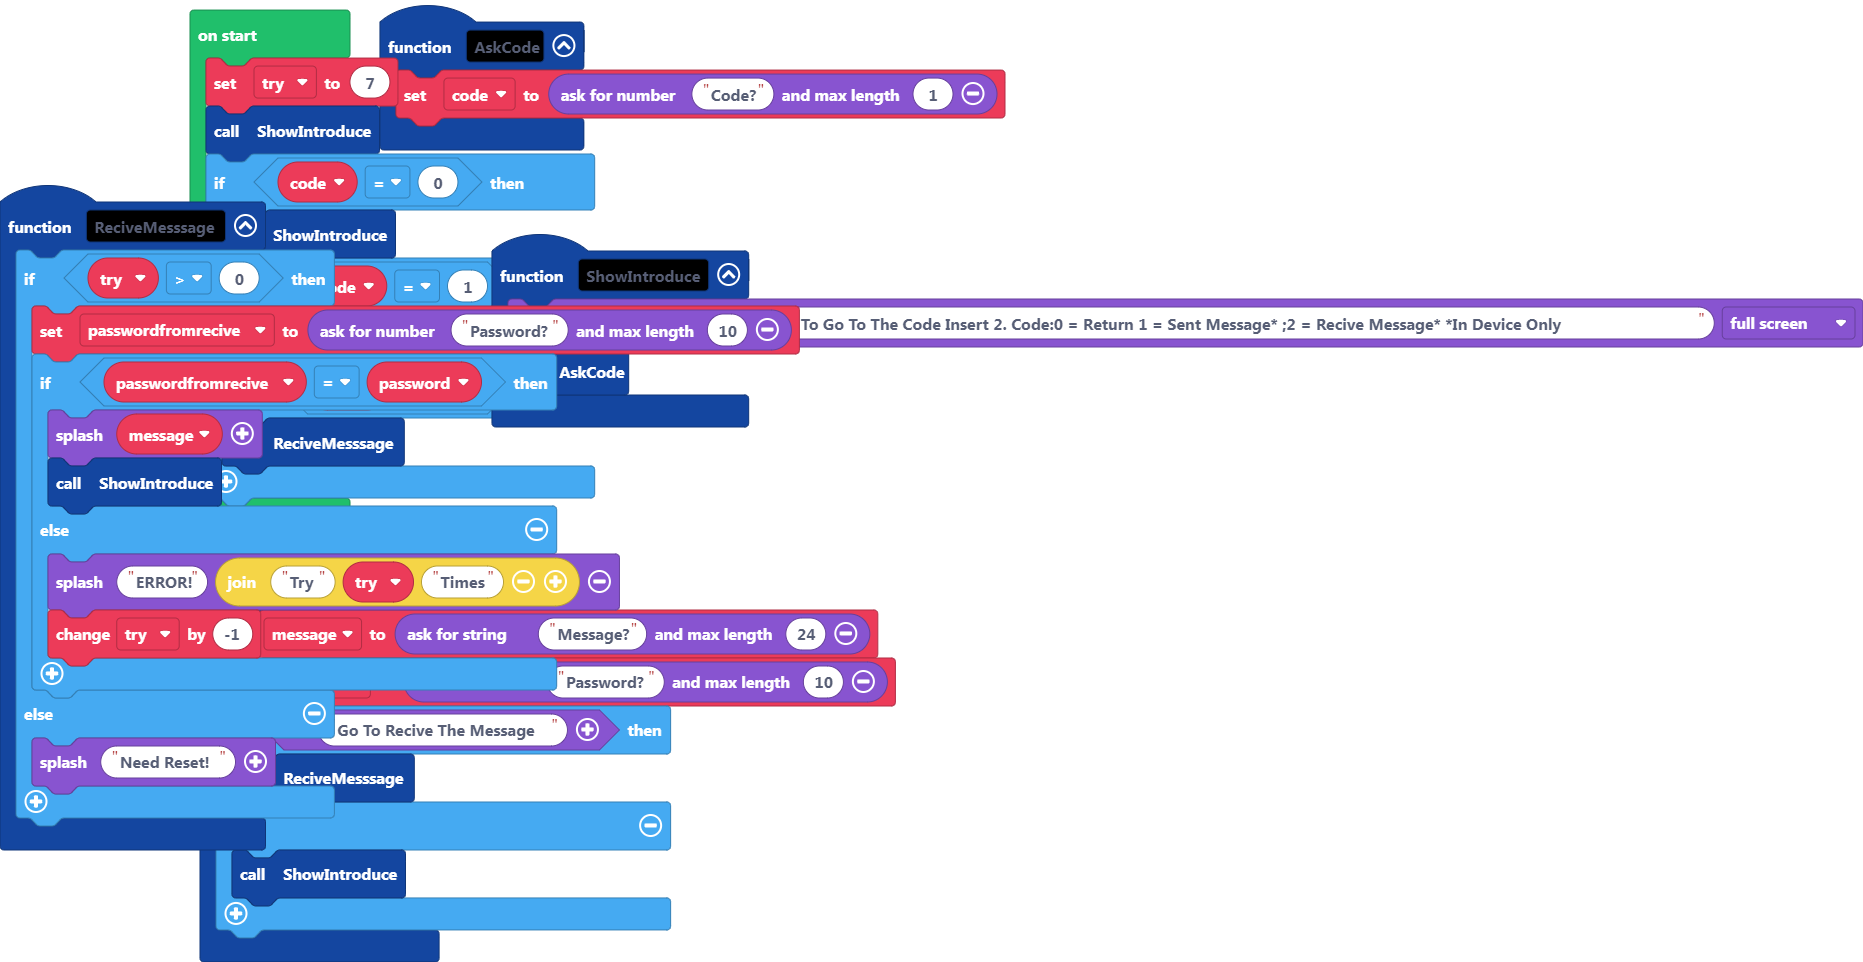
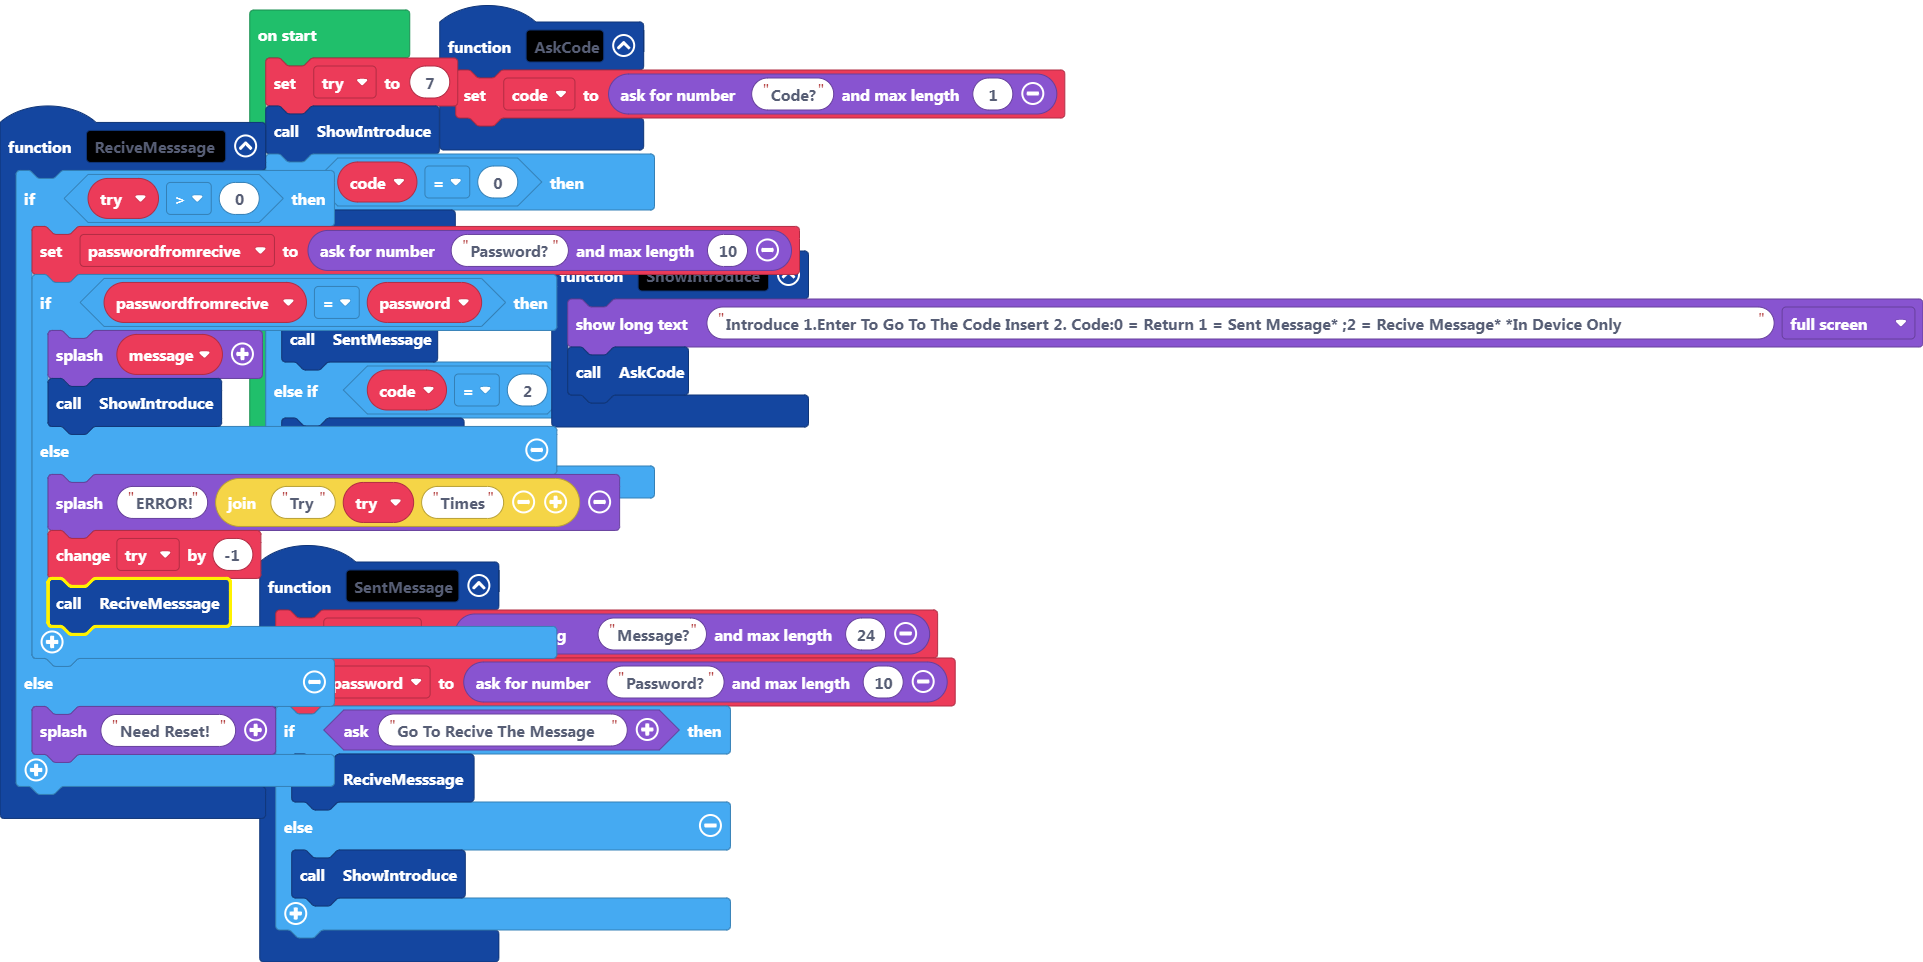
Update main.blocks, main.ts

diff --git a/main.ts b/main.ts
@@ -7,6 +7,7 @@ function ReciveMesssage () {
         } else {
             game.splash("ERROR!", "Try" + _try + "Times")
             _try += -1
+            ReciveMesssage()
         }
     } else {
         game.splash("Need Reset!")
